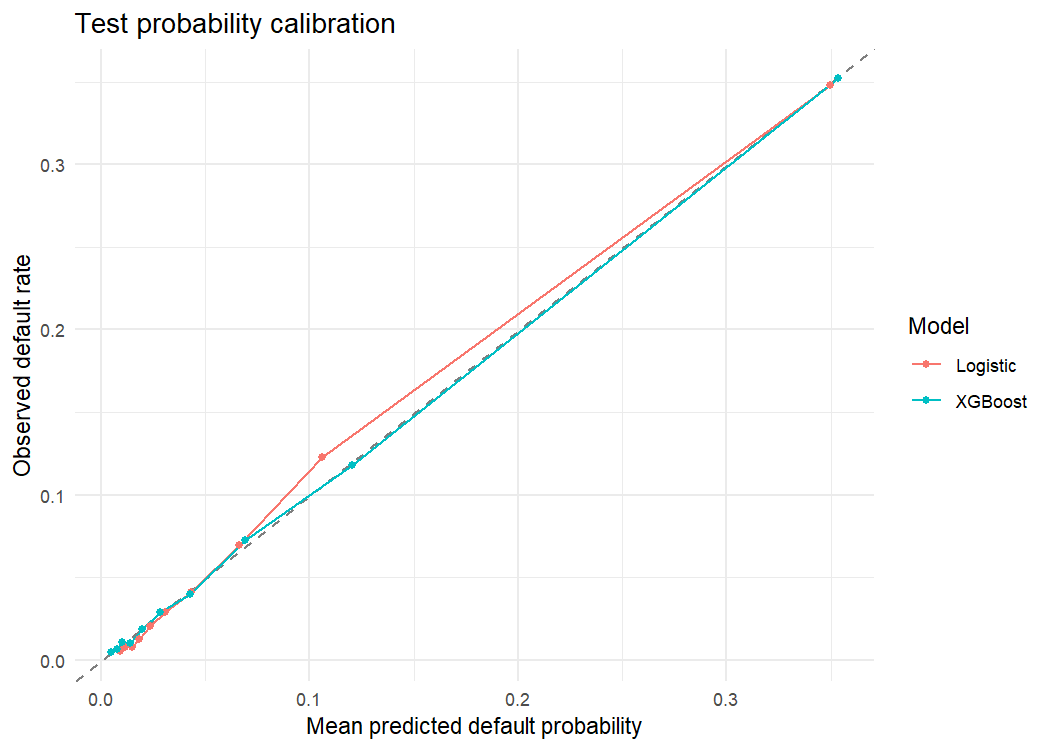
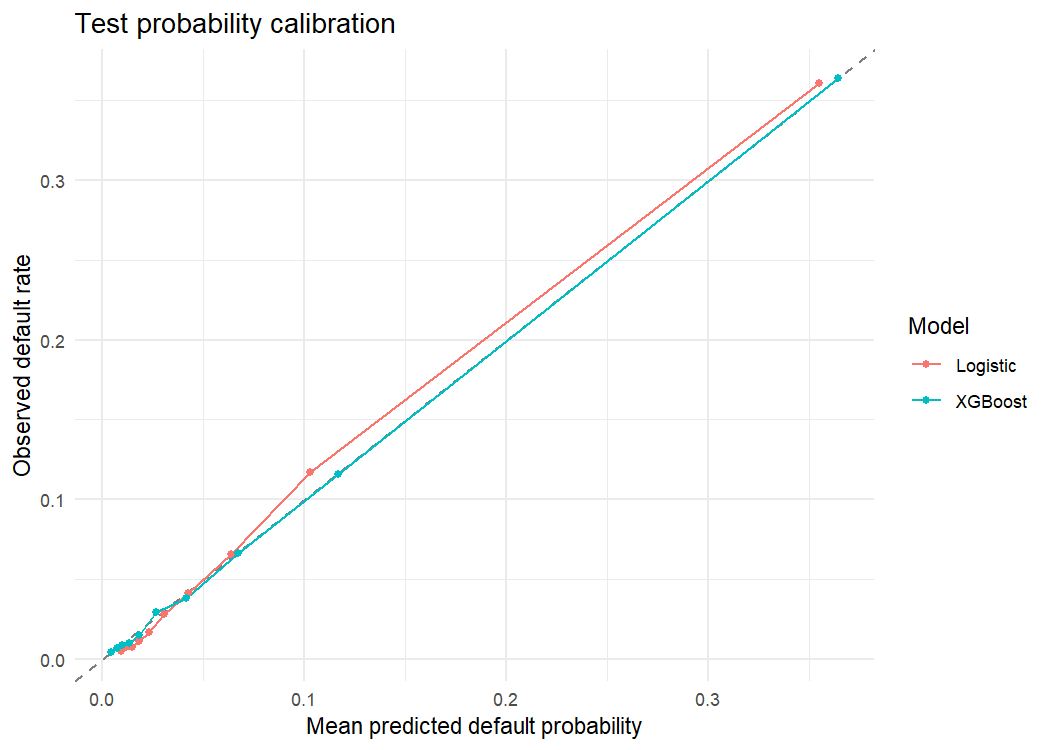
Fix delinquency binning and scorecard field matching

diff --git a/README.md b/README.md
@@ -6,13 +6,14 @@ This project uses the [Give Me Some Credit dataset](https://www.kaggle.com/compe
 
 `cs-training.csv` contains the observed outcome (`SeriousDlqin2yrs`, where 1 means serious delinquency within two years). The supplied `cs-test.csv` has no outcome labels, so it is used only for score-distribution comparison. One record with `age <= 0` is removed from the labelled data. A stratified, seeded 70/30 split leaves **104,999 training** and **45,000 test** records; the external file has **101,503** records.
 
-The training medians fill missing `MonthlyIncome` and `NumberOfDependents` values in all three datasets. The training set alone determines WOE bins, their IV, and the scorecard. Variables are retained when **binned IV > 0.02**. The selected variables and IV are:
+The training medians fill missing `MonthlyIncome` and `NumberOfDependents` values in all three datasets. The training set alone determines WOE bins, their IV, and the scorecard. The two column names containing hyphens are shortened to `Late30to59` and `Late60to89` internally so `scorecard_ply()` matches them to the fitted model. Variables are retained when **binned IV > 0.02**. The selected variables and IV are:
 
 | Variable | Binned IV |
 |---|---:|
 | RevolvingUtilizationOfUnsecuredLines | 1.0470 |
 | NumberOfTimes90DaysLate | 0.8407 |
-| NumberOfTime30-59DaysPastDueNotWorse | 0.7193 |
+| Late30to59 (30–59 day past dues) | 0.7193 |
+| Late60to89 (60–89 day past dues) | 0.5776 |
 | age | 0.2621 |
 | NumberOfOpenCreditLinesAndLoans | 0.0789 |
 | DebtRatio | 0.0692 |
@@ -20,20 +21,24 @@ The training medians fill missing `MonthlyIncome` and `NumberOfDependents` value
 | NumberRealEstateLoansOrLines | 0.0576 |
 | NumberOfDependents | 0.0351 |
 
-Revolving utilization and past-due counts describe credit use and delinquency history that can inform a lending decision. Their high IV warrants review, but is not itself evidence of target leakage. The supplied files do not include observation timestamps, so the historical timing of individual records cannot be independently checked. The 60–89 day past-due count has IV below 0.02 and is excluded.
+Revolving utilization and past-due counts describe credit use and delinquency history that can inform a lending decision. Their high IV warrants review, but is not itself evidence of target leakage. The supplied files do not include observation timestamps, so the historical timing of individual records cannot be independently checked.
 
-Logistic regression and XGBoost use the same selected WOE variables. XGBoost has fixed parameters and 100 rounds; the test set is never used for fitting, tuning, or early stopping. Test-set AUC, KS, and Brier score evaluate the models. Lower Brier score means more accurate probability predictions.
+On the training set, `Late60to89` has 99,763 records at 0 (5.14% bad), 3,951 at 1 (30.83% bad), 1,093 at 2–89 (51.78% bad), and 4/188 at 96/98 (75.0%/55.85% bad). The default 5% minimum bin share merges the whole variable into one bin because only 4.99% have a nonzero value. Using a 1% minimum **for this variable alone** gives 0, 1, and 2+ bins with IV 0.5776. The 2+ bin includes 96/98; its 52.45% bad rate is close to the 51.78% rate for ordinary 2–89 values. All 192 training records with 96/98 have the same value in each of the three past-due columns, suggesting an unusual code, but its meaning is undocumented. No values are deleted or replaced.
 
-The logistic scorecard uses `scorecard::scorecard()` and `scorecard_ply()` with **600 points at bad:good odds of 1:15** and **PDO = 60**. In terms of predicted default probability `p`, the scaling is `600 - 60/log(2) * log((p/(1-p))/(1/15))`. Higher default risk therefore gives a lower score.
+Extreme revolving utilization above 100 occurs in 168 training records and remains in a 15,922-record high-utilization bin. For `DebtRatio > 10`, 18,819 of 20,254 training records have missing income. The highest DebtRatio bin has a lower observed bad rate than the preceding bin; it should not be read as evidence that more debt is safer. No outlier treatment was chosen from test results.
+
+Logistic regression and XGBoost use the same selected WOE variables. XGBoost has fixed parameters and 100 rounds, so this comparison concerns models on the **same binned representation**, not XGBoost on raw features. The current script does not use the test set for fitting, tuning, or early stopping. However, earlier IV-rule changes were considered after viewing test AUC, so these test results are exploratory rather than a fresh independent validation. Lower Brier score means more accurate probability predictions.
+
+The logistic scorecard uses `scorecard::scorecard()` and `scorecard_ply()` with **600 points at bad:good odds of 1:15** and **PDO = 60**. In terms of predicted default probability `p`, the scaling is `600 - 60/log(2) * log((p/(1-p))/(1/15))`. Higher default risk gives a lower score. After fixing the two column names, calculated scores differ from this continuous formula by at most 3.3 points on training records because bin points are rounded. The WOE coefficients are positive except for a small, statistically uncertain negative coefficient on open credit lines; its score contribution should not be interpreted as a reliable risk effect. DebtRatio and real-estate loan bins are not monotonic in observed risk.
 
 ## Results
 
 | Model | Test AUC | KS | Brier score | AUC 95% CI (DeLong) |
 |---|---:|---:|---:|---:|
-| Logistic regression | 0.8539 | 0.5535 | 0.05122 | 0.8467–0.8610 |
-| XGBoost | 0.8576 | 0.5626 | 0.05034 | 0.8506–0.8646 |
+| Logistic regression | 0.8615 | 0.5690 | 0.05044 | 0.8546–0.8685 |
+| XGBoost | 0.8664 | 0.5798 | 0.04924 | 0.8596–0.8732 |
 
-Both models improve substantially over the previous six-variable specification (AUC 0.6799 and 0.6957), alongside the inclusion of revolving utilization and past-due history. This comparison does not isolate the causal contribution of any one variable. XGBoost's new AUC advantage is **0.0037** (paired DeLong 95% CI **0.0022–0.0052**, p = **9.78 × 10⁻⁷**): statistically detectable in this large sample, but small in practice. XGBoost also has a slightly lower Brier score. The [calibration plot](Outputs/Calibration.png) shows both models close to observed rates across training-defined probability groups. AUC measures ranking, not probability accuracy, so the Brier score and calibration plot address a separate question.
+XGBoost's AUC advantage is **0.0049** (paired DeLong 95% CI **0.0033–0.0064**, p = **9.73 × 10⁻¹⁰**): statistically detectable in this large sample, but small in practice. XGBoost also has a slightly lower Brier score. The [calibration plot](Outputs/Calibration.png) shows both models close to observed rates across training-defined probability groups. AUC measures ranking, not probability accuracy, so the Brier score and calibration plot address a separate question. The interval and p-value do not account for earlier decisions influenced by this test set.
 
 ![Test ROC curves](Outputs/ROC_Curve.png)
 
@@ -43,18 +48,18 @@ For an illustrative approval exercise, each cutoff is the 60th, 70th, or 80th pe
 
 | Model | Target approval | Actual test approval | Default rate among approved |
 |---|---:|---:|---:|
-| Logistic regression | 60% | 59.88% | 1.37% |
-| XGBoost | 60% | 59.92% | 1.33% |
-| Logistic regression | 70% | 69.95% | 1.77% |
-| XGBoost | 70% | 69.83% | 1.71% |
-| Logistic regression | 80% | 79.84% | 2.41% |
-| XGBoost | 80% | 79.90% | 2.40% |
+| Logistic regression | 60% | 59.93% | 1.27% |
+| XGBoost | 60% | 59.81% | 1.24% |
+| Logistic regression | 70% | 69.90% | 1.68% |
+| XGBoost | 70% | 69.94% | 1.61% |
+| Logistic regression | 80% | 79.87% | 2.28% |
+| XGBoost | 80% | 79.95% | 2.24% |
 
-The XGBoost groups have slightly lower observed default rates at all three targets; the difference is especially small at 80%. Actual approval rates differ a little because the cutoffs come from training data. The labelled test set's overall default rate is **6.68%**.
+The XGBoost groups have slightly lower observed default rates at all three targets. Actual approval rates differ a little because the cutoffs come from training data. This is a historical-sample risk ranking exercise, not an estimate of a real bank approval policy's effect. The labelled test set's overall default rate is **6.68%**.
 
 ![Approval analysis](Outputs/Approval_Analysis.png)
 
-Score PSI uses training-score decile boundaries for both comparisons: **0.00040** for training versus the random holdout, and **0.00031** for training versus the supplied unlabeled file. These small values describe similar score distributions in these files. Neither comparison is a time-based stability test, and outcomes are unavailable for the external file.
+Score PSI uses training-score decile boundaries for both comparisons: **0.00027** for training versus the random holdout, and **0.00026** for training versus the supplied unlabeled file. These small values are only distribution checks. Neither comparison is a time-based stability test, and outcomes are unavailable for the external file.
 
 ![Test score distribution](Outputs/Score_Distribution.png)
 
